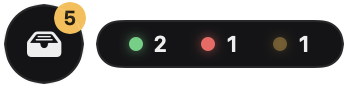
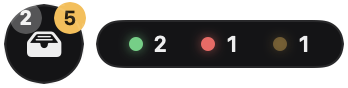
feat: Pill: bot comments show a muted count badge, beside the amber one when both

Changed region(s): [[0.0287, 0.0682, 0.1437, 0.3864]]

diff --git a/Sources/Lookout/PillView.swift b/Sources/Lookout/PillView.swift
@@ -169,24 +169,32 @@ struct PillView: View {
         )
         .overlay(alignment: .topTrailing) {
             if unread > 0 {
-                Text(unread > 99 ? "99+" : "\(unread)")
-                    .font(.system(size: 10, weight: .bold).monospacedDigit())
-                    .foregroundStyle(Color.black.opacity(0.85))
-                    .padding(.horizontal, 4)
-                    .frame(minWidth: 16, minHeight: 16)
-                    .background(Capsule().fill(Theme.amber))
+                countBadge(unread, fill: Theme.amber, text: Color.black.opacity(0.85))
                     .offset(x: 5, y: -5)
                     .transition(.scale.combined(with: .opacity))
-            } else if botUnread > 0 {
-                Circle()
-                    .fill(Theme.secondary)
-                    .frame(width: 7, height: 7)
-                    .offset(x: 1, y: -1)
+            }
+        }
+        // Bots get the same count, muted, on the other corner so it still shows beside the amber one.
+        .overlay(alignment: unread > 0 ? .topLeading : .topTrailing) {
+            if botUnread > 0 {
+                countBadge(botUnread, fill: Color.white.opacity(0.28), text: Theme.text)
+                    .offset(x: unread > 0 ? -1 : 5, y: -5)
                     .help("\(botUnread) from bots")
+                    .transition(.scale.combined(with: .opacity))
             }
         }
         .overlay(alignment: .bottomTrailing) { statusBadge.offset(x: 4, y: 4) }
         .animation(.spring(duration: 0.3), value: unread)
+        .animation(.spring(duration: 0.3), value: botUnread)
+    }
+
+    private func countBadge(_ count: Int, fill: Color, text: Color) -> some View {
+        Text(count > 99 ? "99+" : "\(count)")
+            .font(.system(size: 10, weight: .bold).monospacedDigit())
+            .foregroundStyle(text)
+            .padding(.horizontal, 4)
+            .frame(minWidth: 16, minHeight: 16)
+            .background(Capsule().fill(fill))
     }
 
     /// One row per CI state with the number of repos in it; hover lists them.
